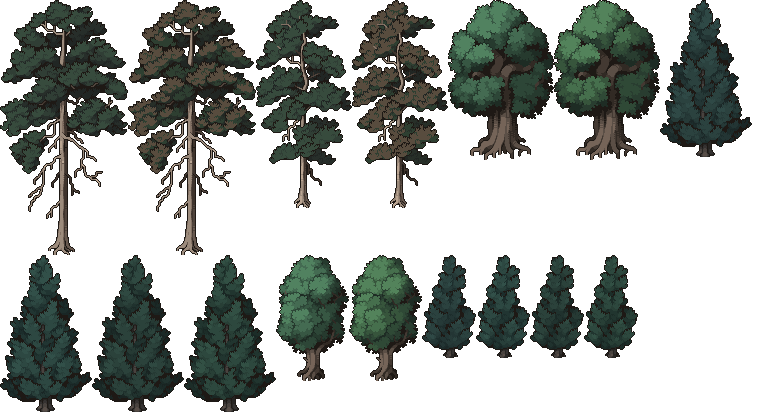
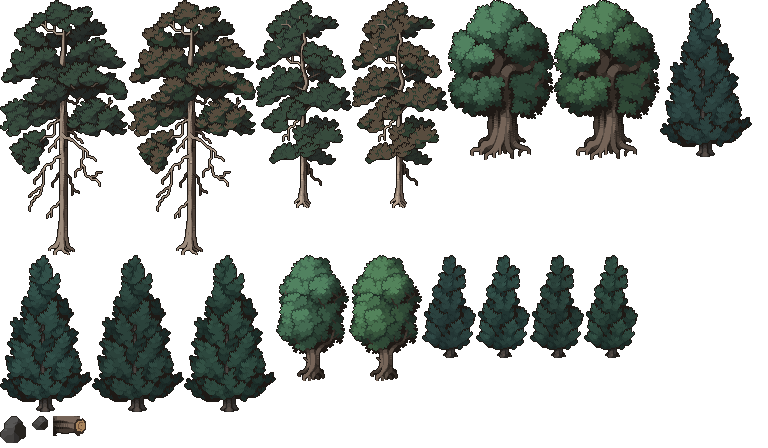
H08-05: use Wyrmforge forest art for rocks and fallen logs

Changed region(s): [[0.0, 0.0, 1.0, 1.0]]

diff --git a/art/wet-forest/README.md b/art/wet-forest/README.md
@@ -8,3 +8,8 @@ repacked into a small tree-only atlas. Source commit
 Gothic Forest Kit is based on Pixel Crawler Free Pack 2.11 by Anokolisa,
 recoloured for Wyrmforge. Original source credits are in the V1 repository
 under `art/source/environment/forest/README.md`.
+
+The same atlas now also packs the exact Wyrmforge grey rock sprites
+`rock.big.0.grey` and `rock.lump.0.grey`. The horizontal log uses a
+rotated crop of the existing live oak bark with a hand-pixeled cut end.
+The prop art occupies new rows below the original tree sprites.
